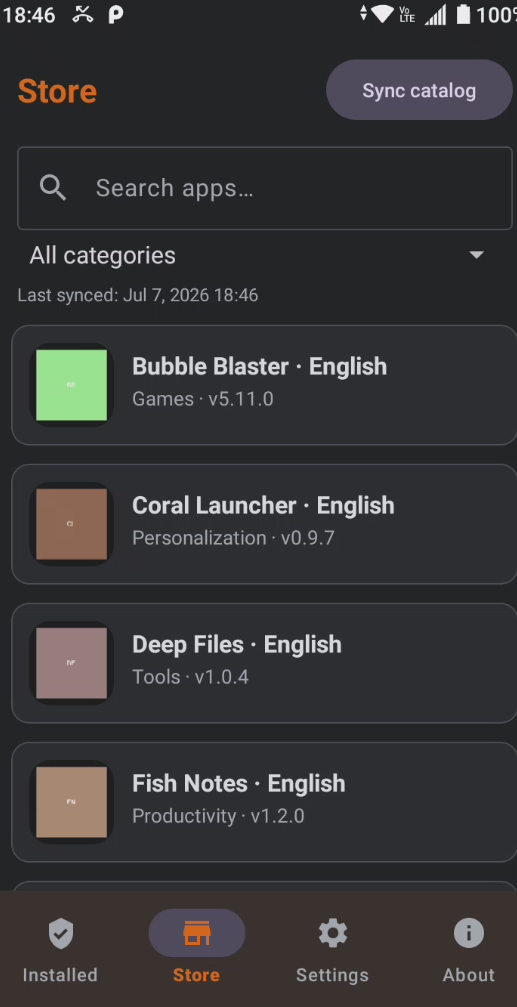
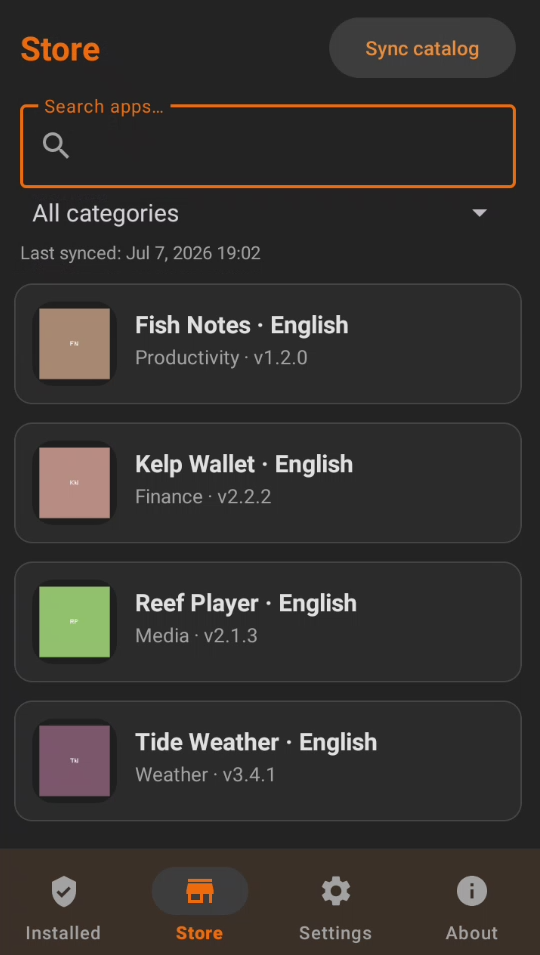
1.0.2

diff --git a/_source/app/src/main/java/com/suitefish/suitefishapk/AppDetailActivity.java b/_source/app/src/main/java/com/suitefish/suitefishapk/AppDetailActivity.java
@@ -12,7 +12,11 @@ import android.widget.Toast;
 
 import androidx.annotation.Nullable;
 import androidx.appcompat.app.AppCompatActivity;
+import androidx.core.graphics.Insets;
+import androidx.core.view.ViewCompat;
+import androidx.core.view.WindowInsetsCompat;
 
+import com.google.android.material.appbar.MaterialToolbar;
 import com.google.android.material.button.MaterialButton;
 import com.google.android.material.dialog.MaterialAlertDialogBuilder;
 import com.suitefish.suitefishapk.data.Repository;
@@ -52,6 +56,17 @@ public class AppDetailActivity extends AppCompatActivity {
     protected void onCreate(@Nullable Bundle savedInstanceState) {
         super.onCreate(savedInstanceState);
         setContentView(R.layout.activity_app_detail);
+
+        // Edge-to-edge (enforced from targetSdk 35): keep content out of the system bars.
+        View root = findViewById(R.id.detail_root);
+        ViewCompat.setOnApplyWindowInsetsListener(root, (v, insets) -> {
+            Insets bars = insets.getInsets(WindowInsetsCompat.Type.systemBars());
+            v.setPadding(bars.left, bars.top, bars.right, bars.bottom);
+            return insets;
+        });
+
+        MaterialToolbar toolbar = findViewById(R.id.detail_toolbar);
+        setSupportActionBar(toolbar);
         if (getSupportActionBar() != null) {
             getSupportActionBar().setDisplayHomeAsUpEnabled(true);
             getSupportActionBar().setTitle(R.string.app_name);

diff --git a/_source/app/src/main/java/com/suitefish/suitefishapk/OnboardingActivity.java b/_source/app/src/main/java/com/suitefish/suitefishapk/OnboardingActivity.java
@@ -10,6 +10,9 @@ import android.widget.Toast;
 
 import androidx.annotation.Nullable;
 import androidx.appcompat.app.AppCompatActivity;
+import androidx.core.graphics.Insets;
+import androidx.core.view.ViewCompat;
+import androidx.core.view.WindowInsetsCompat;
 
 import com.google.android.material.button.MaterialButton;
 import com.google.android.material.checkbox.MaterialCheckBox;
@@ -53,6 +56,14 @@ public class OnboardingActivity extends AppCompatActivity {
         }
 
         setContentView(R.layout.activity_onboarding);
+
+        // Edge-to-edge (enforced from targetSdk 35): keep content out of the system bars.
+        View root = findViewById(R.id.onb_root);
+        ViewCompat.setOnApplyWindowInsetsListener(root, (v, insets) -> {
+            Insets bars = insets.getInsets(WindowInsetsCompat.Type.systemBars());
+            v.setPadding(bars.left, bars.top, bars.right, bars.bottom);
+            return insets;
+        });
 
         acceptRisk = findViewById(R.id.onb_accept_risk);
         radioDefault = findViewById(R.id.onb_radio_default);